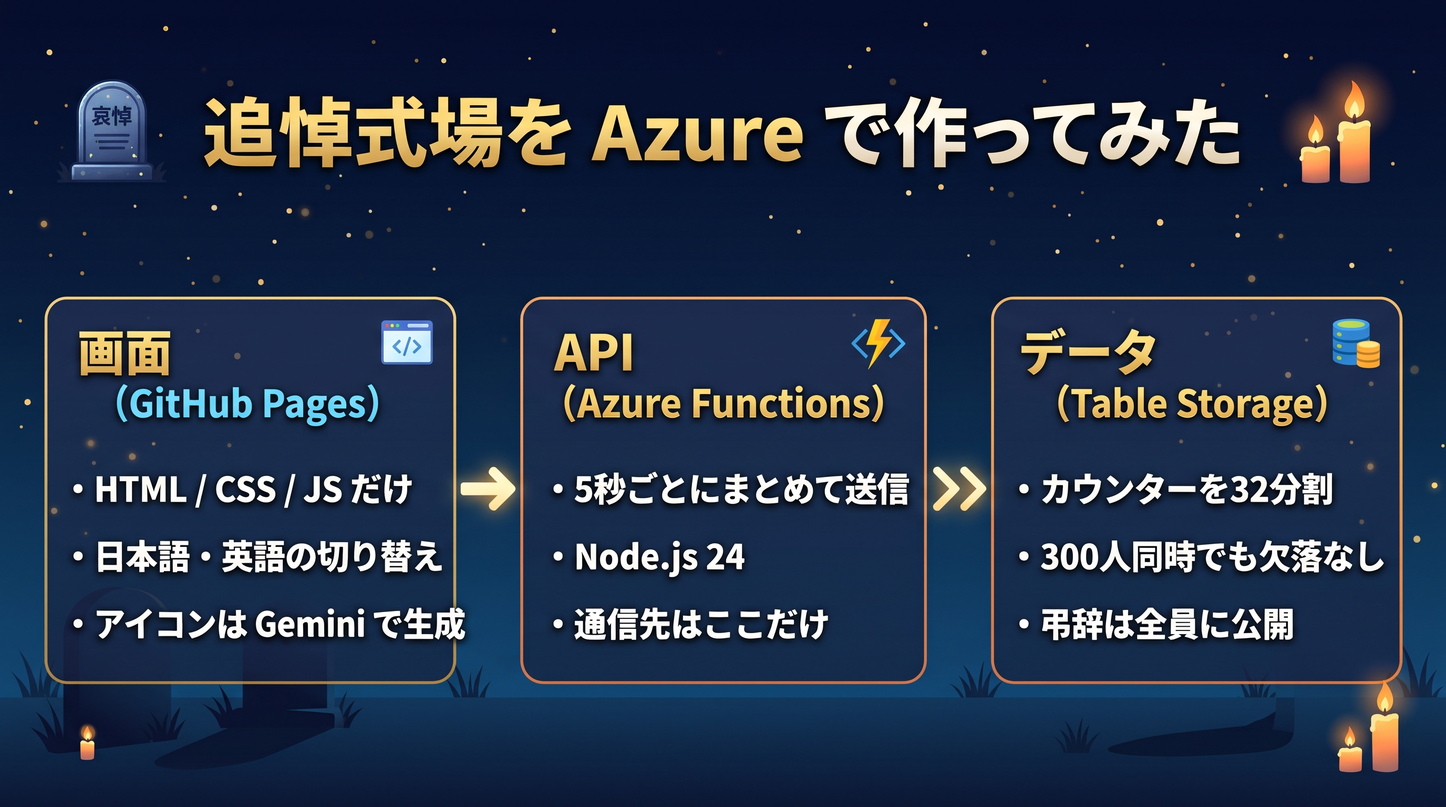
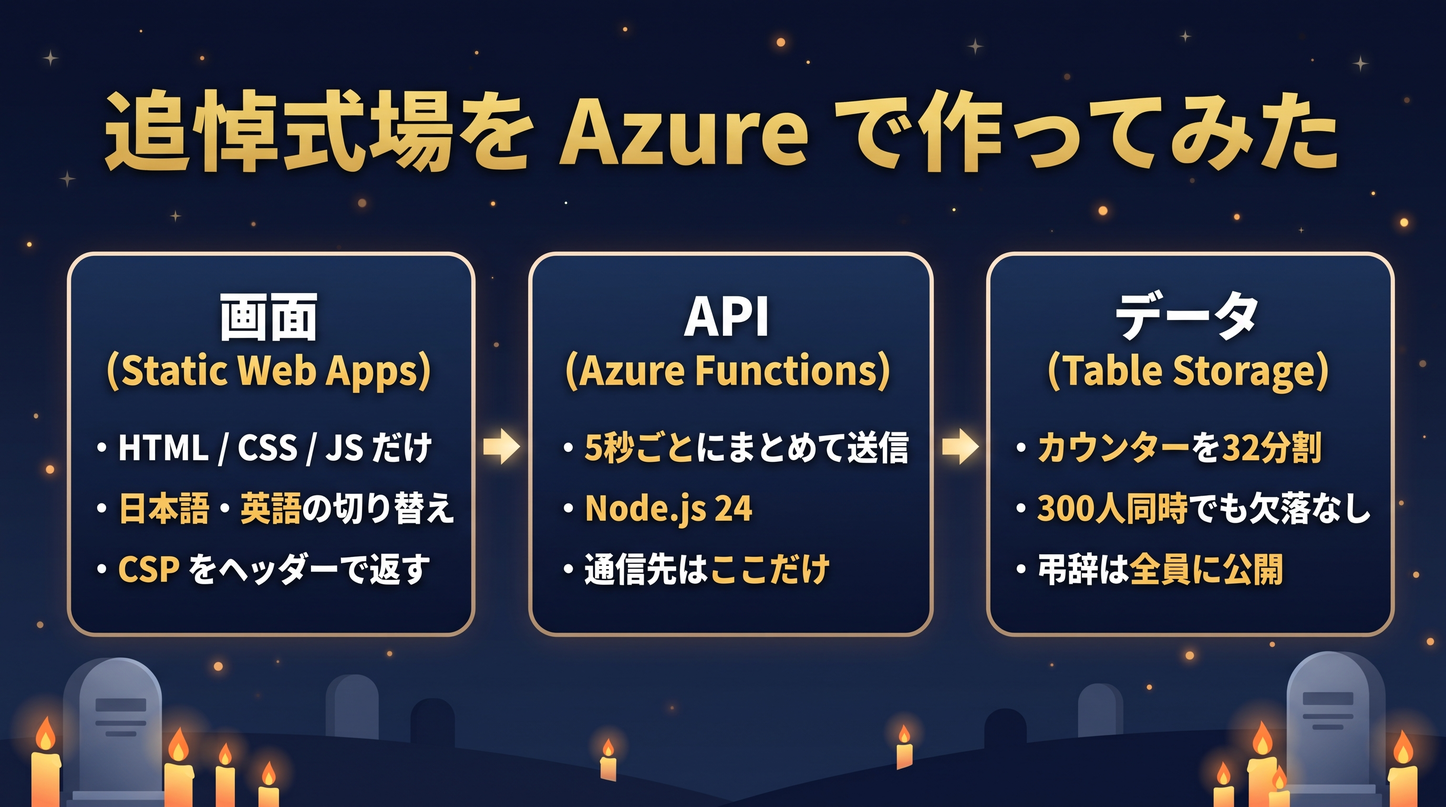
Update memorial article for Static Web Apps

diff --git a/copilot-harness-memorial/generate_tldr_image.py b/copilot-harness-memorial/generate_tldr_image.py
@@ -24,10 +24,10 @@ MODEL = "gemini-nano-banana-2.1"
 ENDPOINT = "https://generativelanguage.googleapis.com/v1beta/interactions"
 OUTPUT = Path(__file__).parent / "Images" / "img-00-tldr-overview.jpg"
 PROMPT = """日本語の技術ブログ用 TL;DR 解説バナー画像を作成。16:9 横長、テキスト主役のインフォグラフィック。
-【テーマ】追悼サイト（GitHub Copilot Harness の追悼式場）を GitHub Pages と Azure Functions で作った
+【テーマ】追悼サイト（GitHub Copilot SDK の追悼式場）を Azure Static Web Apps と Azure Functions で作った
 【画像内に描画する日本語テキスト（正確に）】
 - 大見出し: 「追悼式場を Azure で作ってみた」
-- 左ボックス 見出し「画面（GitHub Pages）」 箇条書き「HTML / CSS / JS だけ」「日本語・英語の切り替え」「アイコンは Gemini で生成」
+- 左ボックス 見出し「画面（Static Web Apps）」 箇条書き「HTML / CSS / JS だけ」「日本語・英語の切り替え」「CSP をヘッダーで返す」
 - 中央ボックス 見出し「API（Azure Functions）」 箇条書き「5秒ごとにまとめて送信」「Node.js 24」「通信先はここだけ」
 - 右ボックス 見出し「データ（Table Storage）」 箇条書き「カウンターを32分割」「300人同時でも欠落なし」「弔辞は全員に公開」
 - ボックス同士を右向きの矢印でつなぐ
